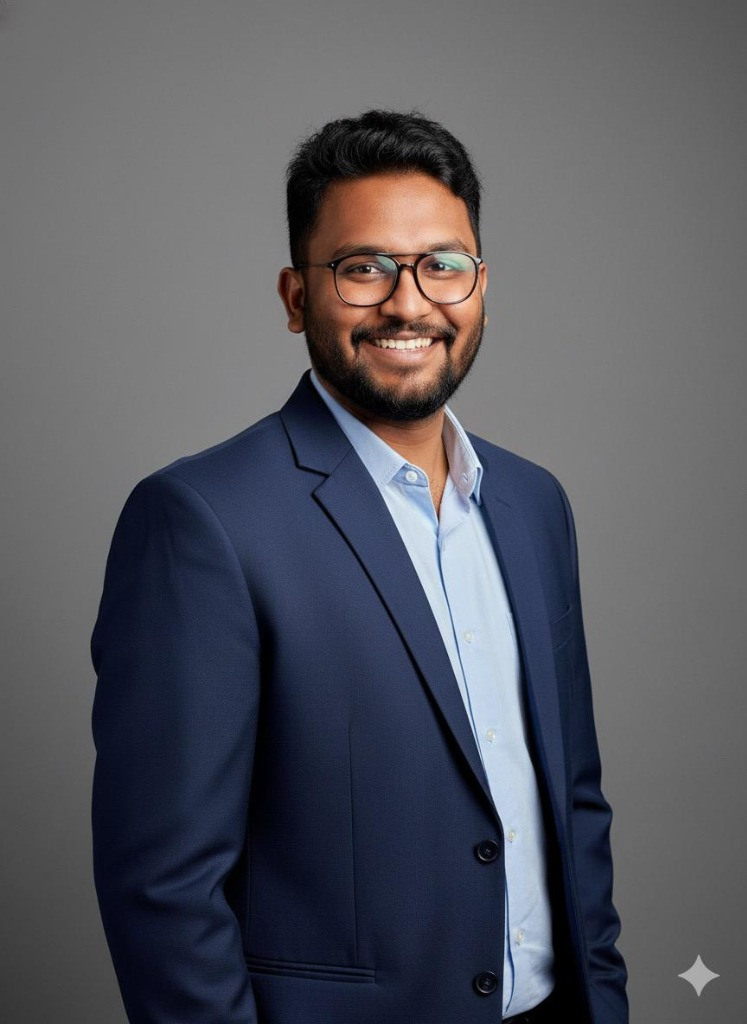
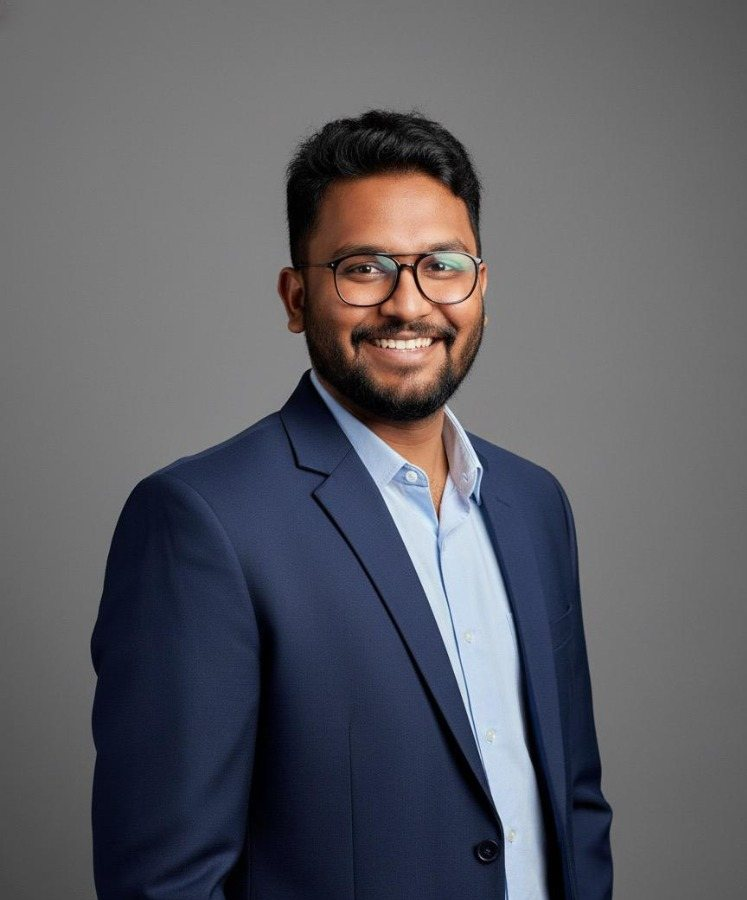
fix: cursor theme color, photo crop + color, Ginthi copy, email, footer
- Cursor no longer uses mix-blend-mode (difference inverted indigo to
  yellow on light backgrounds); it's now the literal theme accent with a
  ring-style hover, and background snaps with the theme.
- Profile photo cropped (747x1024 → 747x900) to remove the AI watermark;
  shown in full color by default with a gentle tilt-and-lift on hover.
- Ginthi.ai timeline note rewritten as a two-line human description of
  the design+develop+ship-with-AI role.
- Email updated to [email redacted] everywhere (contact, footer,
  mobile menu); availability line and pulsing dot removed from footer.

diff --git a/src/App.css b/src/App.css
@@ -76,30 +76,6 @@
   font-size: 0.7rem;
 }
 
-.footer-availability {
-  display: flex;
-  align-items: center;
-  gap: 7px;
-  font-size: 0.78rem;
-  color: var(--ink-muted);
-  margin-bottom: 8px;
-}
-
-.footer-avail-dot {
-  width: 7px;
-  height: 7px;
-  border-radius: 50%;
-  background: var(--color-success);
-  box-shadow: 0 0 0 2px rgba(74, 222, 128, 0.25);
-  flex-shrink: 0;
-  animation: pulse-dot 2.5s ease-in-out infinite;
-}
-
-@keyframes pulse-dot {
-  0%, 100% { box-shadow: 0 0 0 2px rgba(74, 222, 128, 0.25); }
-  50% { box-shadow: 0 0 0 5px rgba(74, 222, 128, 0.08); }
-}
-
 .footer-copy {
   font-size: 0.74rem;
   color: var(--ink-muted);

diff --git a/src/components/Cursor.css b/src/components/Cursor.css
@@ -1,5 +1,7 @@
 /* Native cursor stays available — the dot augments rather than replaces,
-   except over interactive elements where the dot becomes the affordance. */
+   except over interactive elements where the dot becomes the affordance.
+   No blend modes: they invert the accent (indigo read as yellow on light),
+   so the dot is always the literal theme accent. */
 .cursor {
   position: fixed;
   top: 0;
@@ -8,15 +10,16 @@
   height: 10px;
   border-radius: 50%;
   background: var(--accent);
+  border: 1.5px solid transparent;
   pointer-events: none;
   z-index: 9998;
   opacity: 0;
+  /* background intentionally not transitioned — it must snap with the theme */
   transition: width 0.25s var(--ease-out), height 0.25s var(--ease-out),
-    opacity 0.2s ease, background 0.25s var(--ease-out);
+    opacity 0.2s ease, border-color 0.25s var(--ease-out);
   display: flex;
   align-items: center;
   justify-content: center;
-  mix-blend-mode: difference;
 }
 
 .cursor--visible {
@@ -26,7 +29,8 @@
 .cursor--hover {
   width: 44px;
   height: 44px;
-  background: #fff; /* pure white inverts cleanly under difference blend */
+  background: color-mix(in srgb, var(--accent) 14%, transparent);
+  border-color: var(--accent);
 }
 
 .cursor--down {
@@ -37,8 +41,8 @@
 .cursor--label {
   width: 76px;
   height: 76px;
-  mix-blend-mode: normal;
   background: var(--accent);
+  border-color: transparent;
 }
 
 .cursor--label::after {

diff --git a/src/components/About.css b/src/components/About.css
@@ -50,13 +50,20 @@
 
 .about-photo img {
   border-radius: var(--radius-md);
-  filter: grayscale(100%) contrast(1.05);
   border: 1px solid var(--hairline-strong);
-  transition: filter 0.5s var(--ease-out);
+  transition: transform 0.6s var(--ease-out), box-shadow 0.6s var(--ease-out);
 }
 
+/* Full color always; hover gives a gentle sideways tilt-and-lift */
 .about-photo:hover img {
-  filter: grayscale(20%) contrast(1.02);
+  transform: translateX(6px) rotate(1.6deg) scale(1.02);
+  box-shadow: 0 18px 40px rgba(0, 0, 0, 0.28);
+}
+
+@media (prefers-reduced-motion: reduce) {
+  .about-photo:hover img {
+    transform: none;
+  }
 }
 
 .about-photo figcaption {

diff --git a/src/App.tsx b/src/App.tsx
@@ -130,13 +130,9 @@ function App() {
             <span className="footer-dot">·</span>
             <a href="https://github.com/rahulbonala" target="_blank" rel="noopener noreferrer">GitHub</a>
             <span className="footer-dot">·</span>
-            <a href="mailto:[email redacted]">Email</a>
+            <a href="mailto:[email redacted]">Email</a>
             <span className="footer-dot">·</span>
             <a href="#work">Work</a>
-          </div>
-          <div className="footer-availability">
-            <span className="footer-avail-dot" aria-hidden="true" />
-            <span>Open to roles, freelance, and collaborations. Bangalore — remote anywhere.</span>
           </div>
           <p className="footer-copy">&copy; 2023–{new Date().getFullYear()} Sri Sai Rahul Bonala. All rights reserved.</p>
         </div>

diff --git a/src/components/About.tsx b/src/components/About.tsx
@@ -13,7 +13,7 @@ const TIMELINE = [
     period: 'Now',
     role: 'Product Designer — AI specialist (UI/UX)',
     org: 'Ginthi.ai',
-    note: 'Designing and developing a live tech platform with production traffic flowing the whole time — AI-native UI and UX, from concept to shipped code.',
+    note: 'I design and build Ginthi’s web platforms end to end — the interfaces, the code behind them, and the AI tooling that keeps both moving fast. Day to day that means working closely with the team to ship on schedule without letting the customer experience slip.',
   },
   {
     period: 'Jan 2023 – Apr 2026',
@@ -73,8 +73,8 @@ const About: React.FC = () => {
               alt="Sri Sai Rahul Bonala — portrait"
               loading="lazy"
               decoding="async"
-              width="380"
-              height="420"
+              width="374"
+              height="450"
             />
             <figcaption>
               <span>Bangalore, IST</span>

diff --git a/src/components/Contact.tsx b/src/components/Contact.tsx
@@ -16,7 +16,7 @@ const EMAILJS_SERVICE_ID = 'YOUR_SERVICE_ID';
 const EMAILJS_TEMPLATE_ID = 'YOUR_TEMPLATE_ID';
 const EMAILJS_PUBLIC_KEY = 'YOUR_PUBLIC_KEY';
 
-const EMAIL = '[email redacted]';
+const EMAIL = '[email redacted]';
 
 const Contact: React.FC = () => {
   const formRef = useRef<HTMLFormElement>(null);

diff --git a/src/components/Header.tsx b/src/components/Header.tsx
@@ -147,7 +147,7 @@ const Header: React.FC = () => {
         <div className="menu-overlay-foot">
           <a href="https://github.com/rahulbonala" target="_blank" rel="noopener noreferrer" tabIndex={isMenuOpen ? 0 : -1}>GitHub</a>
           <a href="https://www.linkedin.com/in/sri-sai-rahul-7b08b51b1/" target="_blank" rel="noopener noreferrer" tabIndex={isMenuOpen ? 0 : -1}>LinkedIn</a>
-          <a href="mailto:[email redacted]" tabIndex={isMenuOpen ? 0 : -1}>Email</a>
+          <a href="mailto:[email redacted]" tabIndex={isMenuOpen ? 0 : -1}>Email</a>
           <a href="/resume.pdf" download="Rahul_Bonala_Resume.pdf" tabIndex={isMenuOpen ? 0 : -1}>Resume</a>
         </div>
       </div>